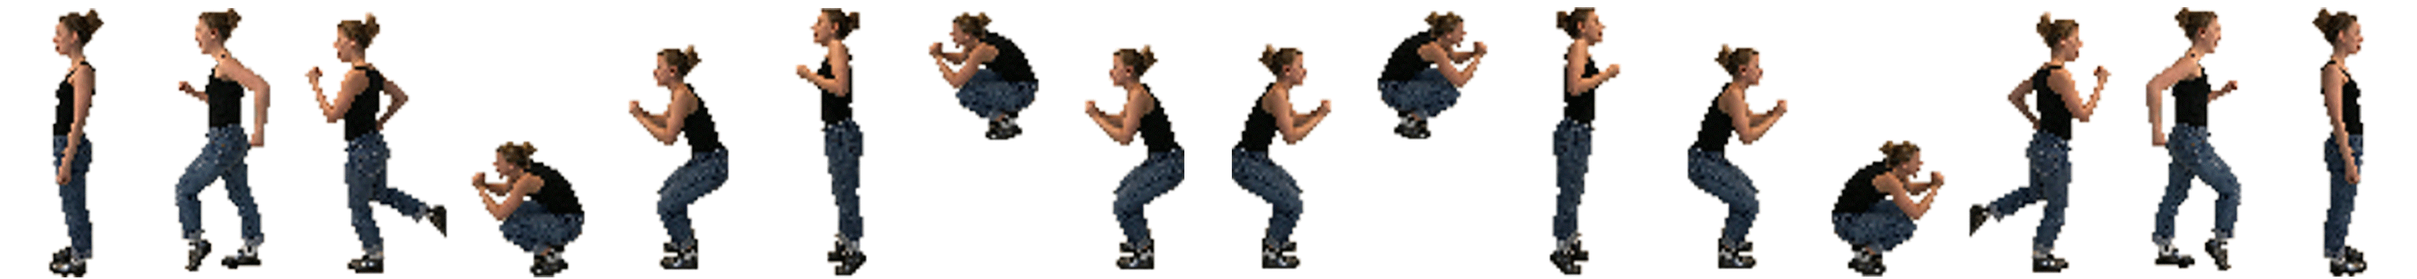
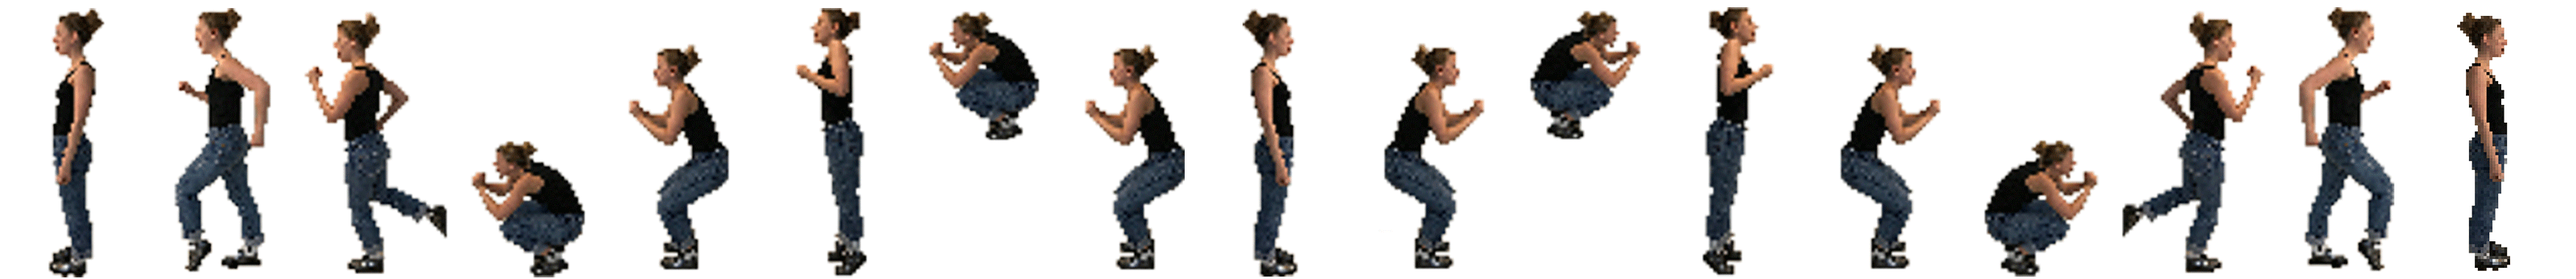
Fix bugs

diff --git a/js/app.js b/js/app.js
@@ -18,9 +18,9 @@ var d;
 function preload() {
   game.load.image('sky', 'assets/16.jpg');
   game.load.image('ground', 'assets/platform.png');
-  game.load.image('star', 'assets/star.png');
-  game.load.spritesheet('student', 'assets/player.png', 188, 325, 16);
-  game.load.spritesheet('enemy', 'assets/enemy.png', 75, 136);
+  game.load.image('star', 'assets/feuille.png');
+  game.load.spritesheet('student', 'assets/player.png', 188, 325);
+  game.load.spritesheet('enemy', 'assets/enemy.png', 188, 325);
 }
 
 function create() {
@@ -36,20 +36,22 @@ function create() {
     platforms = game.add.group();
     platforms.enableBody = true;
 
-    var ground = platforms.create(0, game.world.height - 64, 'ground');
+    var ground = platforms.create(0, game.world.height - 32, 'ground');
     ground.scale.setTo(2, 2);
     ground.body.immovable = true;
     ground.fixedToCamera = true;
 
     //## PLAYER
-    player = game.add.sprite(32, game.world.height - 50, 'student');
+    player = game.add.sprite(32, game.world.height - 600, 'student');
     game.physics.arcade.enable(player);
     player.body.bounce.y = 0.2;
     player.body.gravity.y = 300;
     player.body.collideWorldBounds = true;
+    console.log(player.body.velocity.y);
 
     player.animations.add('left', [0, 1, 2], 10, true);
-    player.animations.add('right', [15, 14, 13], 10, true);
+    player.animations.add('right', [16, 15, 14], 10, true);
+    player.animations.add('jump', [9, 10, 11], 10, true);
 
 
     //## OBSTACLE
@@ -62,7 +64,7 @@ function create() {
 
     //## ENEMY
 
-    enemy = game.add.sprite(600, game.world.height - 150, 'enemy');
+    enemy = game.add.sprite(600, game.world.height - 600, 'enemy');
     game.physics.arcade.enable(enemy);
 
     enemy.body.bounce.y = 0.2;
@@ -133,13 +135,14 @@ function update() {
         //  Stand still
         player.animations.stop();
 
-        player.frame = 4;
+        player.frame = 8;
     }
 
     //  Allow the player to jump if they are touching the ground.
     if (cursors.up.isDown && player.body.touching.down && hitPlatform)
     {
-        player.body.velocity.y = -250;
+        player.body.velocity.y = -600;
+        player.frame = 10;
     }
 }
 
@@ -147,7 +150,9 @@ function createObstacle() {
 
     game.time.events.loop(enemy.animations.play('move'));
 
-    var o = obstacles.create(603, 500, 'star');
+    var o = obstacles.create(603, 350, 'star');
+    o.width = 30;
+    o.height = 30;
     o.name = 'obstacle' + i;
     o.body.velocity.x = -150;
 
